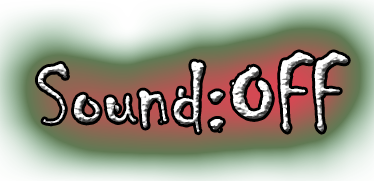
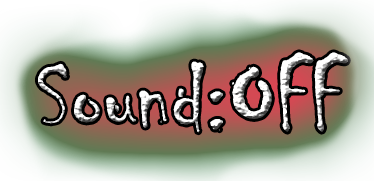
minor visual updates

Changed region(s): [[0.6471, 0.0, 1.0, 0.9392], [0.0, 0.1105, 0.2353, 0.9116]]

diff --git a/SDLTry2/SDLHelper.cpp b/SDLTry2/SDLHelper.cpp
@@ -1096,12 +1096,12 @@ void SDLHelper::LoadGameOn()
 	// 	m_pTexture->SetAnimation(0, 512, 19, 128, 128, 50, false); // EXPLOSION	[4]
 
 	//TITLE
-	m_pInGameTitle = new GameEntity(0, 0, 300, 80, 100, 5, "Title", m_pRenderer, false);
+	m_pInGameTitle = new GameEntity(0, 0, 300, 100, 100, 5, "Title", m_pRenderer, false);
 
-	m_pInGameSizeP1 = new GameEntity(0, 0, 160, 60, 0, 0, "P1Size", m_pRenderer, false);
-	m_pInGameSizeP2 = new GameEntity(0, 0, 160, 60, 0, 0, "P2Size", m_pRenderer, false);
-	m_pInGameAmmoP1 = new GameEntity(0, 0, 160, 60, 0, 0, "P1Ammo", m_pRenderer, false);
-	m_pInGameAmmoP2 = new GameEntity(0, 0, 160, 60, 0, 0, "P2Ammo", m_pRenderer, false);
+	m_pInGameSizeP1 = new GameEntity(0, 0, 180, 40, 0, 0, "P1Size", m_pRenderer, false);
+	m_pInGameSizeP2 = new GameEntity(0, 0, 180, 40, 0, 0, "P2Size", m_pRenderer, false);
+	m_pInGameAmmoP1 = new GameEntity(0, 0, 180, 40, 0, 0, "P1Ammo", m_pRenderer, false);
+	m_pInGameAmmoP2 = new GameEntity(0, 0, 180, 40, 0, 0, "P2Ammo", m_pRenderer, false);
 
 	//COLORS .. SO FAR ****************USE LOWERCASE*****************
 	//Pink			//White		//Black			//Red		//Green	
